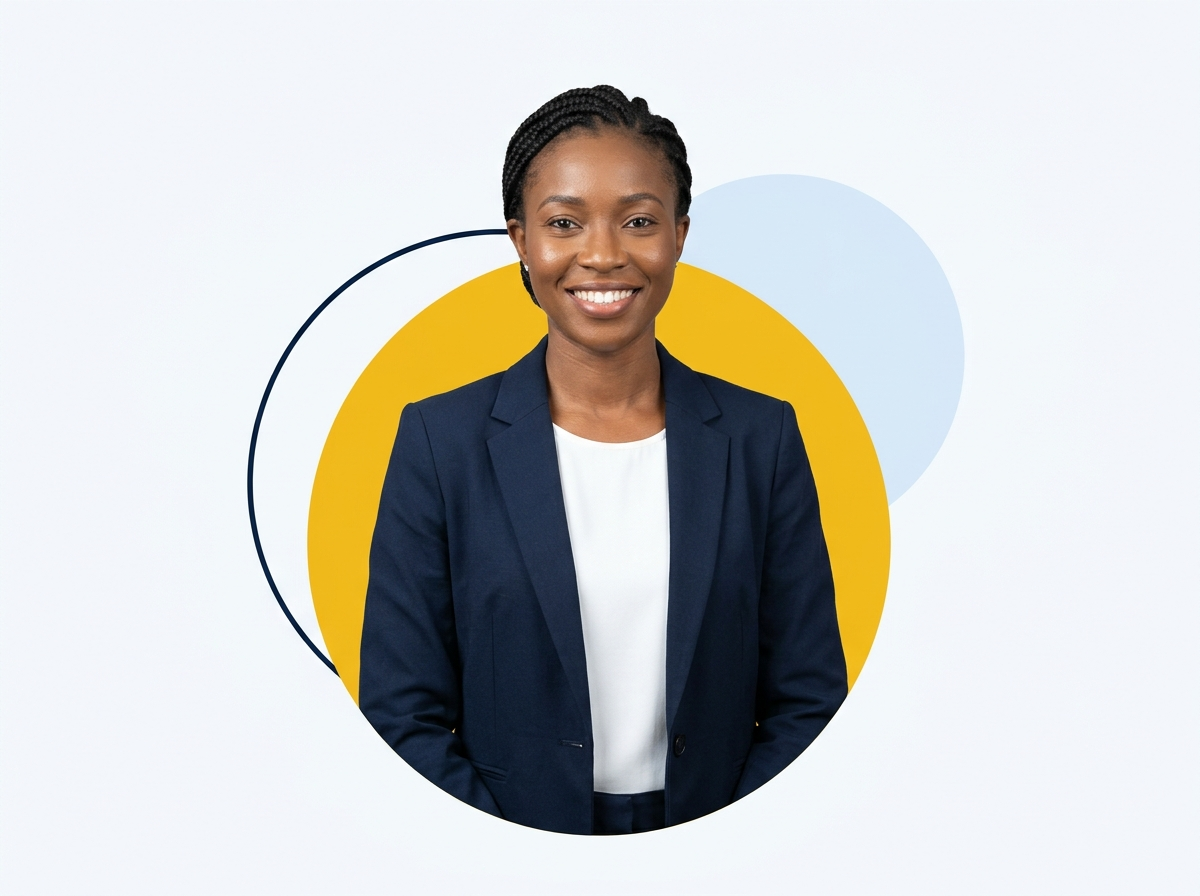
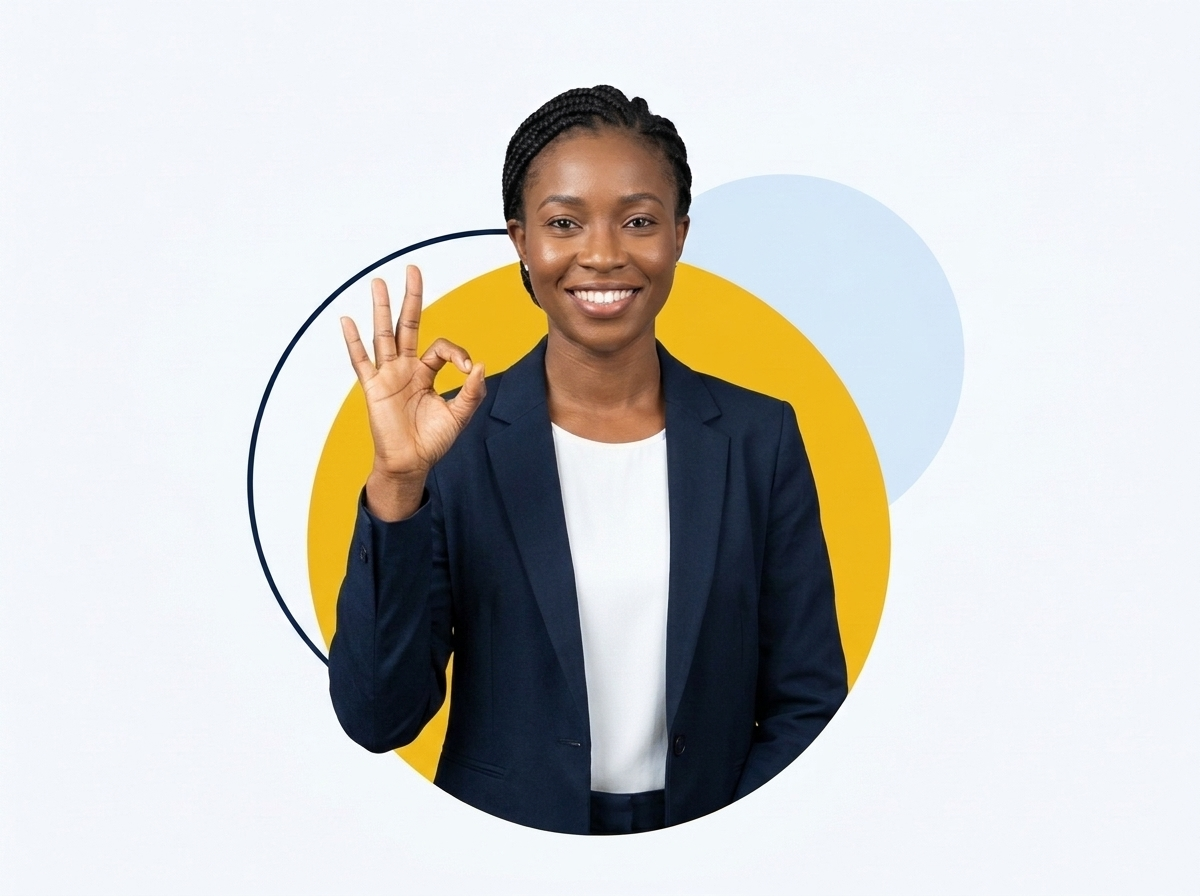
feat: update editorial portrait with OK gesture and faint Trusted background badges

Changed region(s): [[0.2467, 0.2812, 0.4625, 0.9062], [0.4317, 0.4375, 0.4625, 0.4688]]

diff --git a/app/(site)/page.tsx b/app/(site)/page.tsx
@@ -138,6 +138,75 @@ export default function HomePage() {
 
       {/* Band 7: Zoho-Style Editorial Photography + Trust & Accountability Band */}
       <section className="zh-editorial-band">
+        {/* Very faint architectural "Trusted" badges & ribbon banner watermark */}
+        <div className="zh-trust-watermark" aria-hidden="true">
+          <svg viewBox="0 0 1280 560" fill="none" preserveAspectRatio="xMidYMid slice">
+            {/* Faint horizontal trust ribbon banner */}
+            <path
+              d="M -40 120 L 1320 120 M -40 176 L 1320 176"
+              stroke="#0b1b33"
+              strokeWidth="1"
+              strokeDasharray="6 8"
+            />
+            <text
+              x="640"
+              y="156"
+              textAnchor="middle"
+              fill="#0b1b33"
+              fontSize="22"
+              fontWeight="700"
+              letterSpacing="14"
+            >
+              TRUSTED · VERIFIED · AUDITED · TRUSTED · VERIFIED
+            </text>
+
+            {/* Faint left rosette badge */}
+            <g transform="translate(110 390)">
+              <circle cx="0" cy="0" r="82" stroke="#0b1b33" strokeWidth="1.5" strokeDasharray="5 5" />
+              <circle cx="0" cy="0" r="64" stroke="#0b1b33" strokeWidth="1.2" />
+              <path
+                d="M -18 2 L -5 15 L 22 -14"
+                stroke="#0b1b33"
+                strokeWidth="3.5"
+                strokeLinecap="round"
+                strokeLinejoin="round"
+              />
+              <text x="0" y="44" textAnchor="middle" fill="#0b1b33" fontSize="11" fontWeight="700" letterSpacing="4">
+                TRUSTED
+              </text>
+            </g>
+
+            {/* Faint right shield seal badge */}
+            <g transform="translate(1140 375)">
+              <circle cx="0" cy="0" r="96" stroke="#0b1b33" strokeWidth="1.4" strokeDasharray="4 6" />
+              <circle cx="0" cy="0" r="76" stroke="#0b1b33" strokeWidth="1.2" />
+              <path
+                d="M 0 -34 L 26 -22 V -2 C 26 16 14 30 0 36 C -14 30 -26 16 -26 -2 V -22 L 0 -34 Z"
+                stroke="#0b1b33"
+                strokeWidth="2.2"
+              />
+              <path
+                d="M -10 -1 L -2 7 L 12 -9"
+                stroke="#0b1b33"
+                strokeWidth="2.5"
+                strokeLinecap="round"
+                strokeLinejoin="round"
+              />
+              <text x="0" y="56" textAnchor="middle" fill="#0b1b33" fontSize="11" fontWeight="700" letterSpacing="4">
+                TRUSTED
+              </text>
+            </g>
+
+            {/* Faint top-right subtle seal */}
+            <g transform="translate(960 72)">
+              <circle cx="0" cy="0" r="46" stroke="#0b1b33" strokeWidth="1.2" />
+              <text x="0" y="4" textAnchor="middle" fill="#0b1b33" fontSize="10" fontWeight="700" letterSpacing="3">
+                TRUSTED
+              </text>
+            </g>
+          </svg>
+        </div>
+
         <div className="zh-editorial-in">
           <Reveal>
             <div className="zh-editorial-photo">

diff --git a/components/apple/apple.css b/components/apple/apple.css
@@ -1824,6 +1824,8 @@
 
 /* Band 7: Zoho-Style Editorial Photography + Trust & Accountability Band */
 .zh-editorial-band {
+  position: relative;
+  overflow: hidden;
   background: #f8f9fb;
   border-top: 1px solid #e6ebf2;
   border-bottom: 1px solid #e6ebf2;
@@ -1831,7 +1833,24 @@
   text-align: left;
 }
 
+.zh-trust-watermark {
+  position: absolute;
+  inset: 0;
+  z-index: 0;
+  pointer-events: none;
+  opacity: 0.045;
+  overflow: hidden;
+}
+
+.zh-trust-watermark svg {
+  width: 100%;
+  height: 100%;
+  display: block;
+}
+
 .zh-editorial-in {
+  position: relative;
+  z-index: 2;
   max-width: 1220px;
   margin: 0 auto;
   padding: 0 20px;
